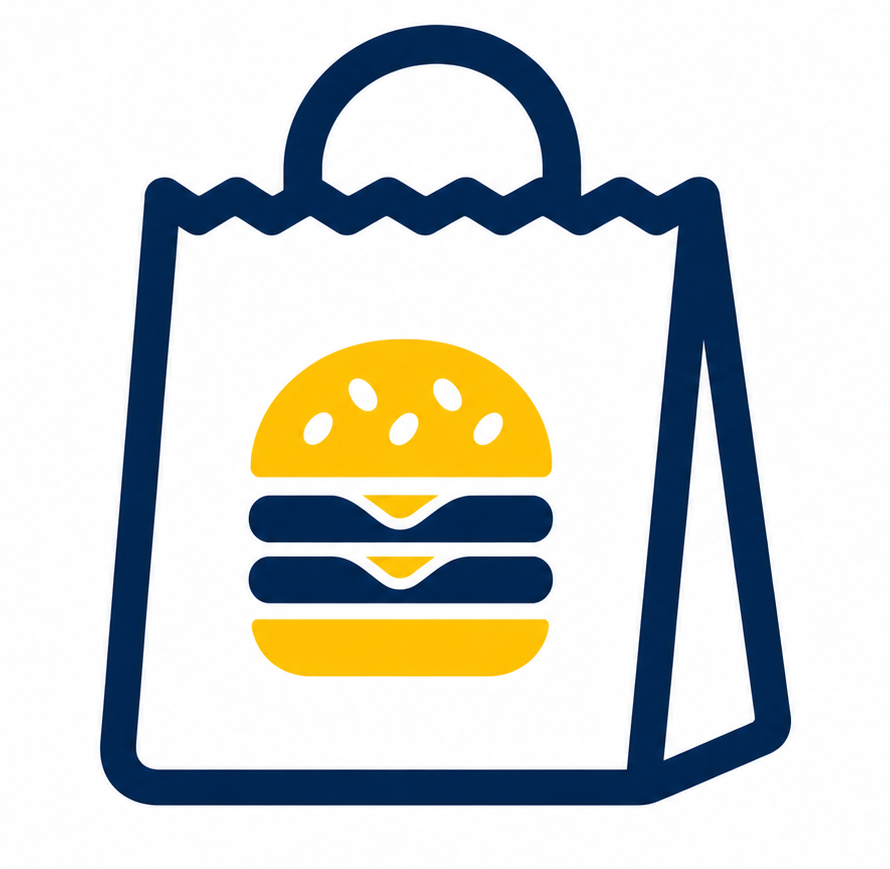
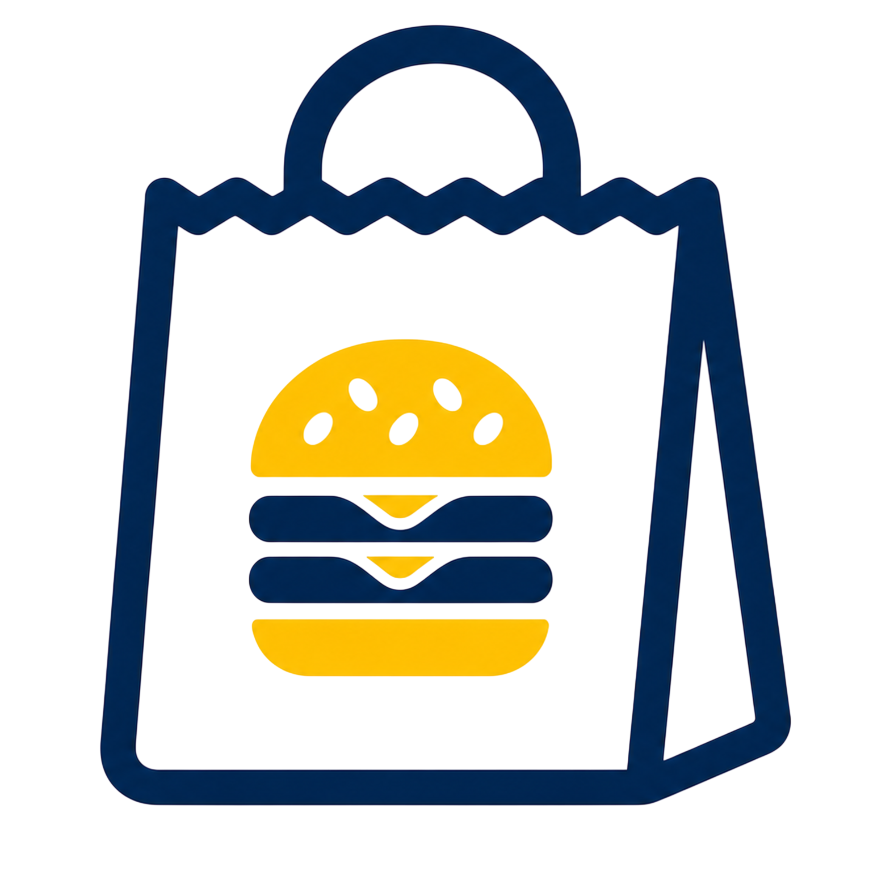
버튼 ui 전면 개편

Changed region(s): [[0.3034, 0.6214, 0.3944, 0.6525], [0.5764, 0.6214, 0.6067, 0.6525]]

diff --git a/src/app/menu-option/page.js b/src/app/menu-option/page.js
@@ -33,6 +33,7 @@ function MenuOptionPageContent() {
     const [isListening, setIsListening] = useState(false);
     const [assistantMessage, setAssistantMessage] = useState("");
     const [isBackButtonActive, setIsBackButtonActive] = useState(false);
+    const [activeOptionButton, setActiveOptionButton] = useState("");
     const [voiceLogs, setVoiceLogs] = useState([]);
     const recognitionRef = useRef(null);
     const mountedRef = useRef(true);
@@ -625,6 +626,27 @@ function MenuOptionPageContent() {
     }
 
     // 기본세트 추가 함수 (새로 작성)
+    const handleSingleClick = () => {
+        setActiveOptionButton("single");
+        setTimeout(() => {
+            handleSingle();
+        }, 120);
+    };
+
+    const handleDefaultSetClick = () => {
+        setActiveOptionButton("default");
+        setTimeout(() => {
+            handleDefaultSet();
+        }, 120);
+    };
+
+    const handleSetClick = () => {
+        setActiveOptionButton("set");
+        setTimeout(() => {
+            handleSet();
+        }, 120);
+    };
+
     const addDefaultSetToCart = useCallback(() => {
         const currentSearchParams = searchParamsRef.current;
         const currentRouter = routerRef.current;
@@ -934,7 +956,7 @@ function MenuOptionPageContent() {
                         >
                             <button
                                 ref={singleButtonRef}
-                                onClick={handleSingle}
+                                onClick={handleSingleClick}
                                 style={{
                                     width: "100%",
                                     height: "130px",
@@ -942,7 +964,7 @@ function MenuOptionPageContent() {
                                     fontWeight: "bold",
                                     backgroundColor: "#fff",
                                     color: "#000",
-                                    border: "2px solid #ddd",
+                                    border: activeOptionButton === "single" ? "2px solid #002e55" : "2px solid #d9e3ef",
                                     borderRadius: "16px",
                                     cursor: "pointer",
                                     boxShadow: "0 4px 12px rgba(0,0,0,0.15)",
@@ -956,7 +978,7 @@ function MenuOptionPageContent() {
 
                             <button
                                 ref={defaultSetButtonRef}
-                                onClick={handleDefaultSet}
+                                onClick={handleDefaultSetClick}
                                 style={{
                                     width: "100%",
                                     height: "130px",
@@ -964,7 +986,7 @@ function MenuOptionPageContent() {
                                     fontWeight: "bold",
                                     backgroundColor: "#fff",
                                     color: "#000",
-                                    border: "2px solid #ddd",
+                                    border: activeOptionButton === "default" ? "2px solid #002e55" : "2px solid #d9e3ef",
                                     borderRadius: "16px",
                                     cursor: "pointer",
                                     boxShadow: "0 4px 12px rgba(0,0,0,0.15)",
@@ -982,7 +1004,7 @@ function MenuOptionPageContent() {
 
                             <button
                                 ref={setButtonRef}
-                                onClick={handleSet}
+                                onClick={handleSetClick}
                                 style={{
                                     width: "100%",
                                     height: "130px",
@@ -990,7 +1012,7 @@ function MenuOptionPageContent() {
                                     fontWeight: "bold",
                                     backgroundColor: "#fff",
                                     color: "#000",
-                                    border: "2px solid #ddd",
+                                    border: activeOptionButton === "set" ? "2px solid #002e55" : "2px solid #d9e3ef",
                                     borderRadius: "16px",
                                     cursor: "pointer",
                                     boxShadow: "0 4px 12px rgba(0,0,0,0.15)",

diff --git a/src/app/(home)/page.js b/src/app/(home)/page.js
@@ -161,12 +161,9 @@ export default function HomePage() {
               onClick={() => goKioskVoice("dinein")}
               style={{
                 ...squareBase,
-                backgroundColor: "#ffffff",
+                backgroundColor: activeOrderType === "dinein" ? "#c8d8ea" : "#ffffff",
                 color: blue,
-                boxShadow:
-                  activeOrderType === "dinein"
-                    ? "inset 0 0 0 10px #c8d8ea, inset 0 0 0 20px #f5f8fc, 0 16px 36px rgba(0, 12, 29, 0.22)"
-                    : "0 16px 36px rgba(0, 12, 29, 0.22)",
+                boxShadow: "none"
               }}
             >
               <img
@@ -189,12 +186,9 @@ export default function HomePage() {
               onClick={() => goKioskVoice("takeout")}
               style={{
                 ...squareBase,
-                backgroundColor: "#ffffff",
+                backgroundColor: activeOrderType === "takeout" ? "#c8d8ea" : "#ffffff",
                 color: blue,
-                boxShadow:
-                  activeOrderType === "takeout"
-                    ? "inset 0 0 0 10px #c8d8ea, inset 0 0 0 20px #f5f8fc, 0 16px 36px rgba(0, 12, 29, 0.16)"
-                    : "0 16px 36px rgba(0, 12, 29, 0.16)",
+                boxShadow: "none"
               }}
             >
               <img

diff --git a/src/app/menu/page.js b/src/app/menu/page.js
@@ -171,6 +171,7 @@ function MenuPageContent() {
     const [showRecommendation, setShowRecommendation] = useState(false);
     const [currentPage, setCurrentPage] = useState(1);
     const [selectedCategory, setSelectedCategory] = useState("burger"); // "burger", "drink", "side"
+    const [activeMenuCardId, setActiveMenuCardId] = useState(null);
 
     function navigateTo(path) {
         stopVoiceSession(recognitionRef.current, shouldListenRef, isSpeakingRef);
@@ -421,6 +422,13 @@ function MenuPageContent() {
     }
 
     function handleMenuCardClick(menu) {
+        setActiveMenuCardId(menu.id);
+        setTimeout(() => {
+            proceedMenuCardClick(menu);
+        }, 120);
+    }
+
+    function proceedMenuCardClick(menu) {
         const name = menu.name;
         const cartData = encodeURIComponent(JSON.stringify(cartItems));
         const orderType = searchParams.get("orderType") || "takeout";
@@ -1168,7 +1176,7 @@ function MenuPageContent() {
                                             flexDirection: "column",
                                             gap: 0,
                                             background: "#ffffff",
-                                            border: "2px solid #f0f0f0",
+                                            border: activeMenuCardId === m.id ? "2px solid #002e55" : "2px solid #d9e3ef",
                                             borderRadius: 24,
                                             boxShadow: "0 4px 16px rgba(0,0,0,0.1)",
                                             padding: 0,
@@ -1183,12 +1191,12 @@ function MenuPageContent() {
                                         onMouseEnter={(e) => {
                                             e.currentTarget.style.boxShadow = "0 8px 24px rgba(0,0,0,0.15)";
                                             e.currentTarget.style.transform = "translateY(-4px)";
-                                            e.currentTarget.style.borderColor = "#FF6B35";
+                                            e.currentTarget.style.borderColor = activeMenuCardId === m.id ? "#002e55" : "#FF6B35";
                                         }}
                                         onMouseLeave={(e) => {
                                             e.currentTarget.style.boxShadow = "0 4px 16px rgba(0,0,0,0.1)";
                                             e.currentTarget.style.transform = "translateY(0)";
-                                            e.currentTarget.style.borderColor = "#f0f0f0";
+                                            e.currentTarget.style.borderColor = activeMenuCardId === m.id ? "#002e55" : "#d9e3ef";
                                         }}
                                     >
                                         {/* 이미지 영역 - 최대 크기 */}